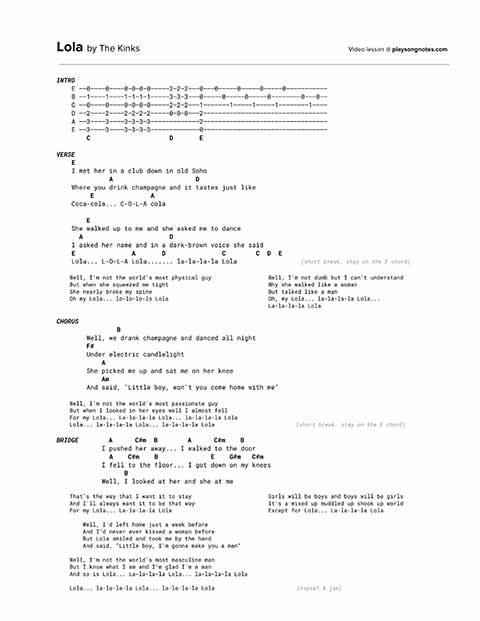
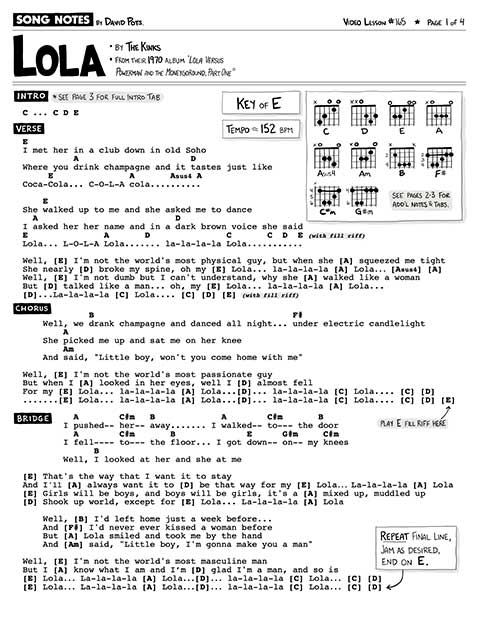
Adds lola sheet music link

Changed region(s): [[0.0, 0.0, 0.9688, 0.9485]]

diff --git a/_lessons/165 [Kinks] Lola.md b/_lessons/165 [Kinks] Lola.md
@@ -12,8 +12,9 @@ slug: "165"
 redirect_from:
   - /songs/kinks-lola/
 #pdf_version: v1
-pdf_version: copyright
-pdf_numpages: 3
+pdf_version: musicnotes
+pdf_numpages: 4
+musicnotes_url: https://www.musicnotes.com/l/hc6MZ
 patreon_lesson_available: true
 patreon_lesson_url: https://www.patreon.com/posts/35741438
 ---
@@ -27,188 +28,10 @@ patreon_lesson_url: https://www.patreon.com/posts/35741438
 
 ## Editor's notes
 
-Lola, by The Kinks, is one of the many fantastic covers that lawyer-turned-guitarist Mike Masse covers on his excellent YouTube channel. After hearing his version so many times, I decided to work out what he is playing in the intro to the song. [Here is the video](https://www.youtube.com/watch?v=qWWU5x5RLbI) of Mike’s version.
+Lola, by The Kinks, is one of the many fantastic covers that lawyer-turned-guitarist Mike Massé covers on his excellent YouTube channel. After hearing his version so many times, I decided to work out what he is playing in the intro to the song. [Here is the video](https://www.youtube.com/watch?v=qWWU5x5RLbI) of Mike’s version.
 
 While this riff I came up with isn’t 100% what he plays, it’s still a super fun sequence to have fun with. So, I wanted to share! I hope you dig it.
 
 ## Mike Masse's cover version
 
 <iframe width="560" height="315" src="https://www.youtube.com/embed/qWWU5x5RLbI?showinfo=0?showinfo=0" frameborder="0" allowfullscreen></iframe>
-
-## Lyrics w/ chords
-
-    INTRO
-        | C . . . | C . D . | E . . . | E . . . |
-
-    VERSE
-        E
-        I met her in a club down in old Soho
-                  A                      D
-        Where you drink champagne and it tastes just like
-             E               A
-        Coca-cola... C-O-L-A cola
-
-            E
-        She walked up to me and she asked me to dance
-          A                       D
-        I asked her name and in a dark-brown voice she said
-        E               A       D               C        C  D  E
-        Lola... L-O-L-A Lola....... la-la-la-la Lola
-
-        (short break, stay on the E chord)
-
-        Well, I'm not the world's most physical guy
-        But when she squeezed me tight she nearly broke my spine
-        Oh my Lola... lo-lo-lo-lo Lola
-
-        Well, I'm not dumb but I can't understand
-        Why she walked like a woman but talked like a man
-        Oh, my Lola... la-la-la-la Lola... la-la-la-la Lola
-
-        (short break, stay on the E chord)
-
-    CHORUS
-                    B
-            Well, we drank champagne and danced all night
-            F#
-            Under electric candlelight
-                A
-            She picked me up and sat me on her knee
-                Am
-            And said, "Little boy, won't you come home with me"
-
-        Well, I'm not the world's most passionate guy
-        But when I looked in her eyes well I almost fell
-        For my Lola... La-la-la-la Lola... la-la-la-la Lola
-
-        Lola... la-la-la-la Lola... la-la-la-la Lola
-
-        (short break, stay on the E chord)
-
-    BRIDGE
-                  A      C#m  B
-                I pushed her away
-                  A      C#m    B
-                I walked to the door
-                  A    C#m    B
-                I fell to the floor
-                      E    G#m   C#m
-                I got down on my knees
-                      B
-                Well, I looked at her and she at me
-
-        That's the way that I want it to stay
-        And I'll always want it to be that way
-        For my Lola... La-la-la-la Lola
-
-        Girls will be boys and boys will be girls
-        It's a mixed up muddled up shook up world
-        Except for Lola... La-la-la-la Lola
-
-            Well, I'd left home just a week before
-            And I'd never ever kissed a woman before
-            But Lola smiled and took me by the hand
-            And said, "Little boy, I'm gonna make you a man"
-
-        Well, I'm not the world's most masculine man
-        But I know what I am and I’m glad I'm a man
-        And so is Lola... La-la-la-la Lola... la-la-la-la Lola
-
-        Lola... la-la-la-la Lola... la-la-la-la Lola
-                                            (repeat & jam)
-
-## Chords needed
-
-Here's how to play the guitar chords used in this song. The chorus and bridge get a bit tricker with barre chords, but you can get away with simple open chords for the intro and verse sections.
-
-    e-|---0----0----2----0----0-----0----------2-----4-----4----
-    B-|---0----1----3----2----3-----1-----4----2-----5-----4----
-    G-|---1----0----2----2----2-----2-----4----3-----6-----4----
-    D-|---2----2----0----2----2-----2-----4----4-----6-----6----
-    A-|---2----3---------0----0-----0-----2----4-----4-----6----
-    E-|---0-------------------------------2----------------4----
-          E    C    D    A  Asus4   Am    B    F#   C#m   G#m
-
-## Extended instrumental intro riff
-
-Lola, by The Kinks, is one of the many fantastic covers that lawyer-turned-guitarist Mike Masse covers on his excellent YouTube channel. After hearing his version so many times, I decided to work out what he is playing in the intro to the song. Here is the video of Mike's version:
-
-<iframe width="560" height="315" src="https://www.youtube.com/embed/qWWU5x5RLbI" frameborder="0" allow="autoplay; encrypted-media" allowfullscreen></iframe>
-
-While this riff I came up with isn't 100% what he plays, it's still a super fun sequence to have fun with. So, I wanted to share!
-
-### Part 1 of 6:
-
-    E ––0––––0––––0–0–0–0–––––2–2–2–––0–––0–––––0–––––0–––––0–––––––––––
-    B ––1––––1––––1–1–1–1–––––3–3–3–––0–––––0–––––0–––––0––––––––0–––0––
-    G ––0––––0––––0–0–0–0–––––2–2–2–––1–––––––1–––––1–––––1––––––––1––––
-    D ––2––––2––––2–2–2–2–––––0–0–0–––2–––––––––––––––––––––––––––––––––
-    A ––3––––3––––3–3–3–3–––––––––––––2–––––––––––––––––––––––––––––––––
-    E ––3––––3––––3–3–3–3–––––––––––––0–––––––––––––––––––––––––––––––––
-        C                     D       E
-
-### Part 2 of 6:
-
-       "Met her in a club...         drink...      taste just like..."
-
-    E –/4––4–4–4–––2–2–––0–0––0–––––––––––––––––––––––––––––––––––––––––
-    B –/5––5–5–5–––0–0–––0–0––0––––––/5–––5–5–5––––7–7–7–7–––––5––5–––––
-    G –/4––4–4–4–––2–2–––1–1––1––––––/6–––6–6–6––––7–7–7–7–––––7––7–––––
-    D –––––––––––––––––––2–2––2––––––/7–––7–7–7––––7–7–7–7–––––7––7–––––
-    A –––––––––––––––––––2–2––2––––––/7–––7–7–7––––0–0–0–0–––––0––0–––––
-    E –––––––––––––––––––0–0––0–––––––––––––––––––––––––––––––––––––––––
-        E                             A            D           Dsus2  
-
-### Part 3 of 6:
-
-       "Cola...      C - O - L - A    cola..."
-
-    E ––0–––0–0–0–––/4––4–4–4–––2–2–––0–––0–0–0––––0–0–0–––––0––0––0––––
-    B ––0–––0–0–0–––/5––5–5–5–––0–0–––2–––2–2–2––––2–2–2–––––3––3––2––––
-    G ––1–––1–1–1–––/4––4–4–4–––2–2–––2–––2–2–2––––2–2–2–––––2––2––2––––
-    D ––2–––2–2–2–––––––––––––––––––––2–––2–2–2––––2–2–2–––––2––2––2––––
-    A ––2–––2–2–2–––––––––––––––––––––0–––0–0–0––––0–0–0–––––0––0––0––––
-    E ––0–––0–0–0–––––––––––––––––––––––––––––––––––––––––––––––––––––––
-        E                             A                     Asus4  A
-
-### Part 4 of 6:
-
-       "She walked up to me...       I asked...    deep brown voice..."
-
-    E –/4––4–4–4–––2–2–––0–0––0–––––––––––––––––––––––––––––––––––––––––
-    B –/5––5–5–5–––0–0–––0–0––0––––––/5–––5–5–5––––7–7–7–7–––––5––5–––––
-    G –/4––4–4–4–––2–2–––1–1––1––––––/6–––6–6–6––––7–7–7–7–––––7––7–––––
-    D –––––––––––––––––––2–2––2––––––/7–––7–7–7––––7–7–7–7–––––7––7–––––
-    A –––––––––––––––––––2–2––2––––––/7–––7–7–7––––0–0–0–0–––––0––0–––––
-    E –––––––––––––––––––0–0––0–––––––––––––––––––––––––––––––––––––––––
-        E                             A            D           Dsus2  
-
-### Part 5 of 6
-
-       "Lola...      L - O - L - A    Lola...      La-la-la, la..."
-
-    E ––0–––––––––––/4––4–4–4–––2–2–––0–––0–0–0––––2–2–2–2––––0––0––
-    B ––0–––––––––––/5––5–5–5–––0–0–––2–––2–2–2––––3–3–3–3––––3––3––
-    G ––1–––––––––––/4––4–4–4–––2–2–––2–––2–2–2––––2–2–2–2––––2––2––
-    D ––2–––––––––––––––––––––––––––––2–––2–2–2––––0–0–0–0––––0––0––
-    A ––2–––––––––––––––––––––––––––––0–––0–0–0–––––––––––––––––––––
-    E ––0–––––––––––––––––––––––––––––––––––––––––––––––––––––––––––
-        E                             A            D          Dsus2
-
-### Part 6 of 6:
-
-      "Lola..."
-
-    E ––0––––0––––0–0–0–0–––––2–2–2–––0–––0–––––0–––––0–––––0–––––––––––
-    B ––1––––1––––1–1–1–1–––––3–3–3–––0–––––0–––––0–––––0––––––––0–––0––
-    G ––0––––0––––0–0–0–0–––––2–2–2–––1–––––––1–––––1–––––1––––––––1––––
-    D ––2––––2––––2–2–2–2–––––0–0–0–––2–––––––––––––––––––––––––––––––––
-    A ––3––––3––––3–3–3–3–––––––––––––2–––––––––––––––––––––––––––––––––
-    E ––3––––3––––3–3–3–3–––––––––––––0–––––––––––––––––––––––––––––––––
-        C                     D       E
-
-
-
-## Good luck!
-
-Let me know if you have questions. I hope this was helpful.

diff --git a/backlog.md b/backlog.md
@@ -18,6 +18,7 @@ permalink: /backlog/
 
 Sheet music for the following songs are all available for purchase at Musicnotes.com. Each arrangement is officially licensed & legal, and also uses my latest sheet music formatting.
 
+    Mar 6  - Lola
     Mar 1  - Under the Bridge
     Feb 8  - Me and Bobby McGee
     Feb 7  - Whitehouse Road
@@ -51,15 +52,14 @@ Sheet music for the following songs are all available for purchase at Musicnotes
 
 <h3>6+ requests:</h3>
 
-    Stairway to Heaven          XXXXXXXXXXXXXXXXXXXXXXXXXXXXXXXXXX
-    Lola                        XXXXXXXXXXXX
+    Stairway to Heaven          XXXXXXXXXXXXXXXXXXXXXXXXXXXXXXXXXXX
     Sweet Child o Mine          XXXXXXXXXXX
     Creep                       XXXXXXXXXX
+    Game of Thrones (theme)     XXXXXXXXXX
     Like a Rolling Stone        XXXXXXXXX
     A Million Dreams •          XXXXXXXXX
-    Game of Thrones (theme)     XXXXXXXXX
-    American Girl               XXXXXXX
-    Feeling Whitney             XXXXXXX
+    American Girl               XXXXXXXX
+    Feeling Whitney             XXXXXXXX
     Always Remember Us This Way XXXXXXX
     Danny's Song •              XXXXXXX
     California Dreaming         XXXXXX
@@ -67,6 +67,7 @@ Sheet music for the following songs are all available for purchase at Musicnotes
     Highwayman •                XXXXXX
     My Fav. Picture of You      XXXXXX
     Running Down a Dream        XXXXXX
+    Sedona                      XXXXXX
     Total Eclipse of the Heart  XXXXXX
 
 <br />
@@ -75,7 +76,7 @@ Sheet music for the following songs are all available for purchase at Musicnotes
     All Apologies               XXX
     Banded Clovis •             XXXX
     LA Freeway                  XXXX
-    Let Him Roll                XXXX
+    Let Him Roll                XXXXX
     Let It Go                   XXX
     Light On •                  XXX
     Lookin' Out My Backdoor     XXX
@@ -83,7 +84,6 @@ Sheet music for the following songs are all available for purchase at Musicnotes
     My Old Kentucky Home        XXXXX
     Remember Me •               XXXXX
     Say It Ain't So             XXXX
-    Sedona                      XXXXX
     Surf Rider                  XXXXX
     Walk Right In •             XXXXX
     We Are the Champions •      XXXXX
